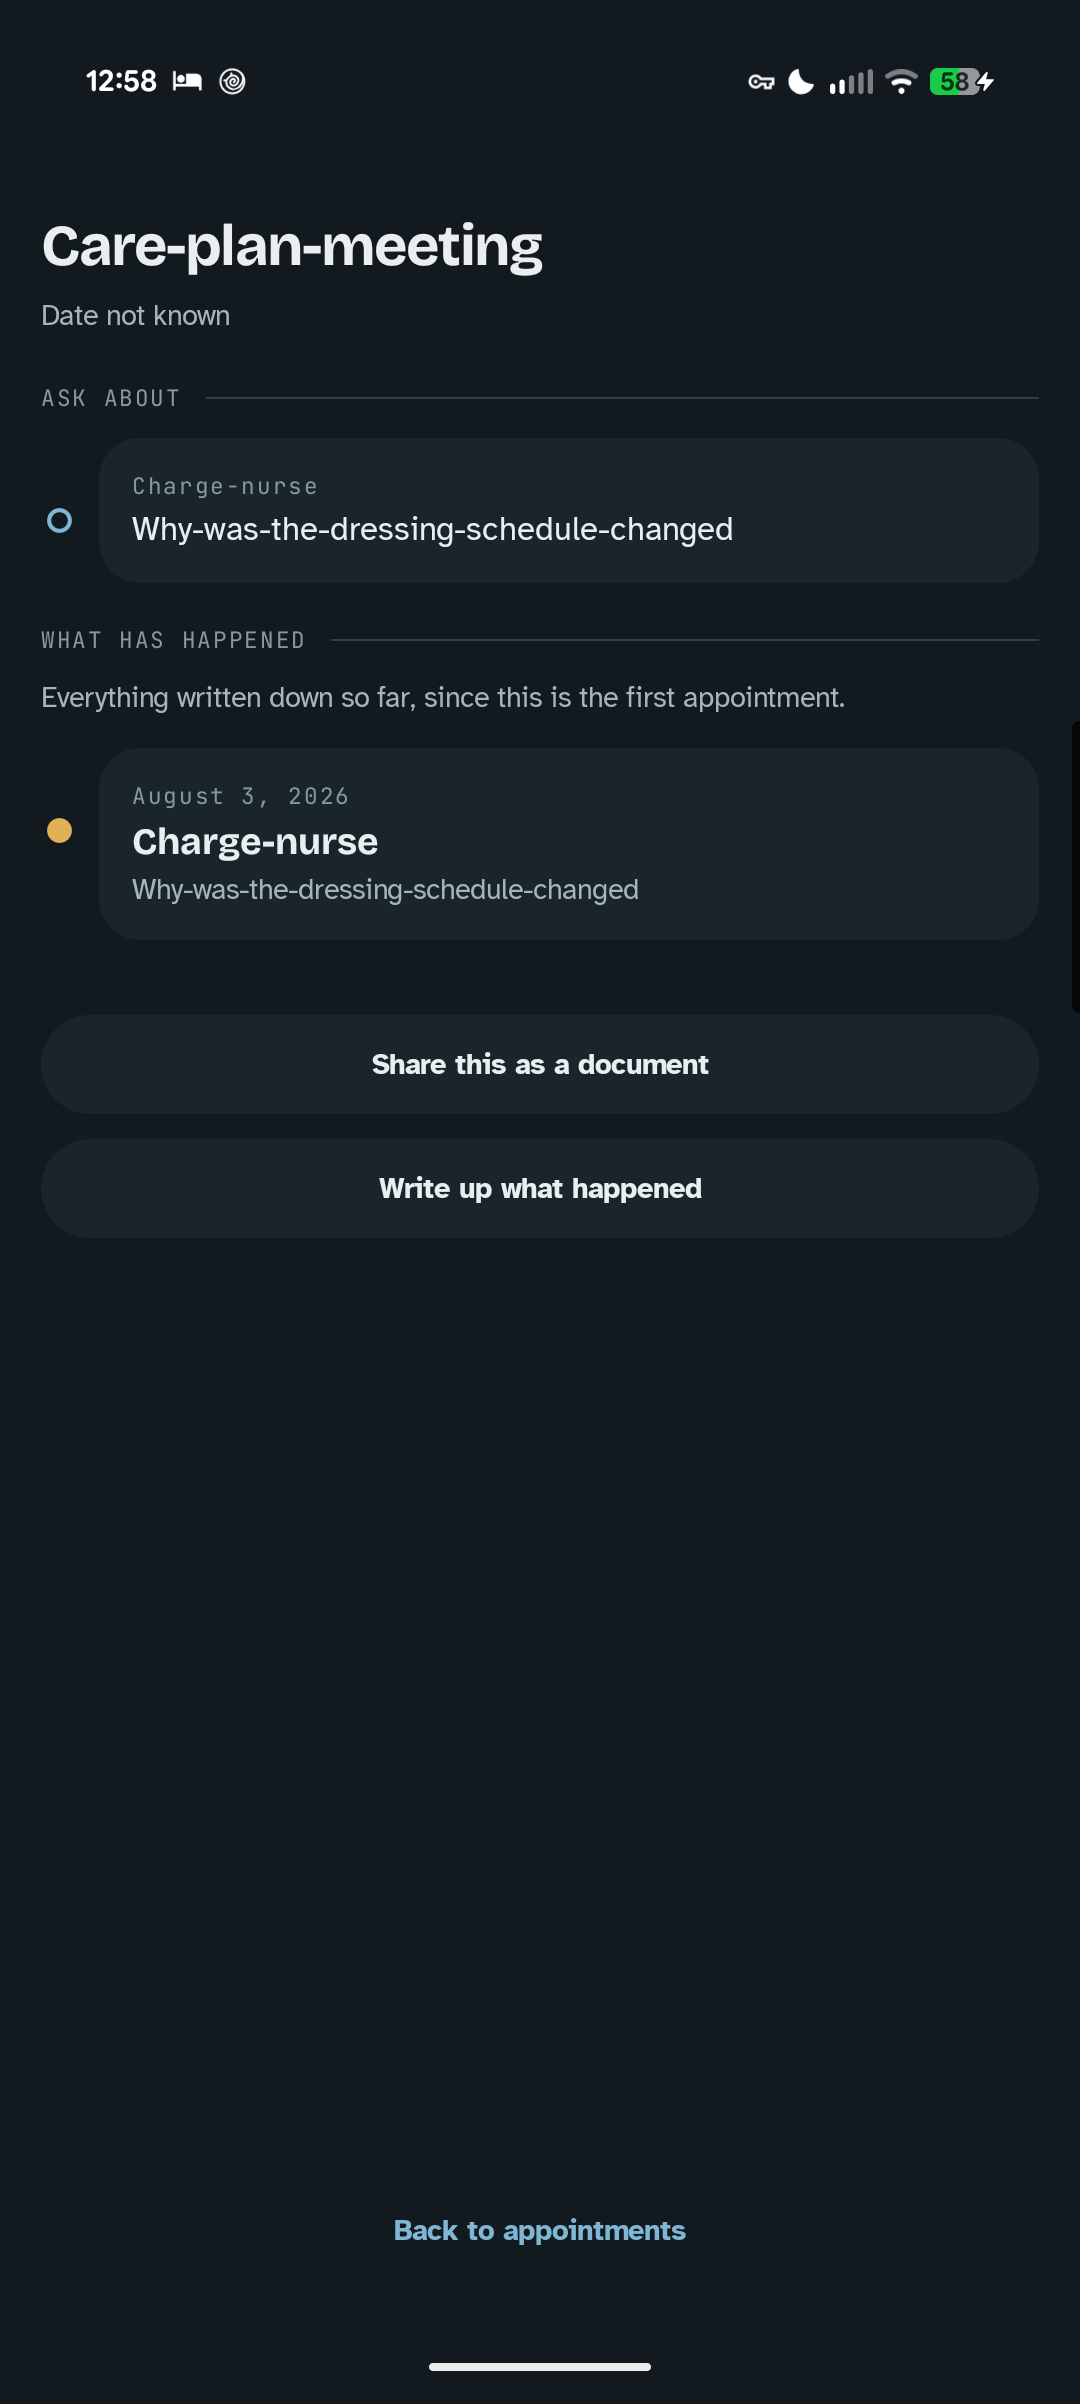
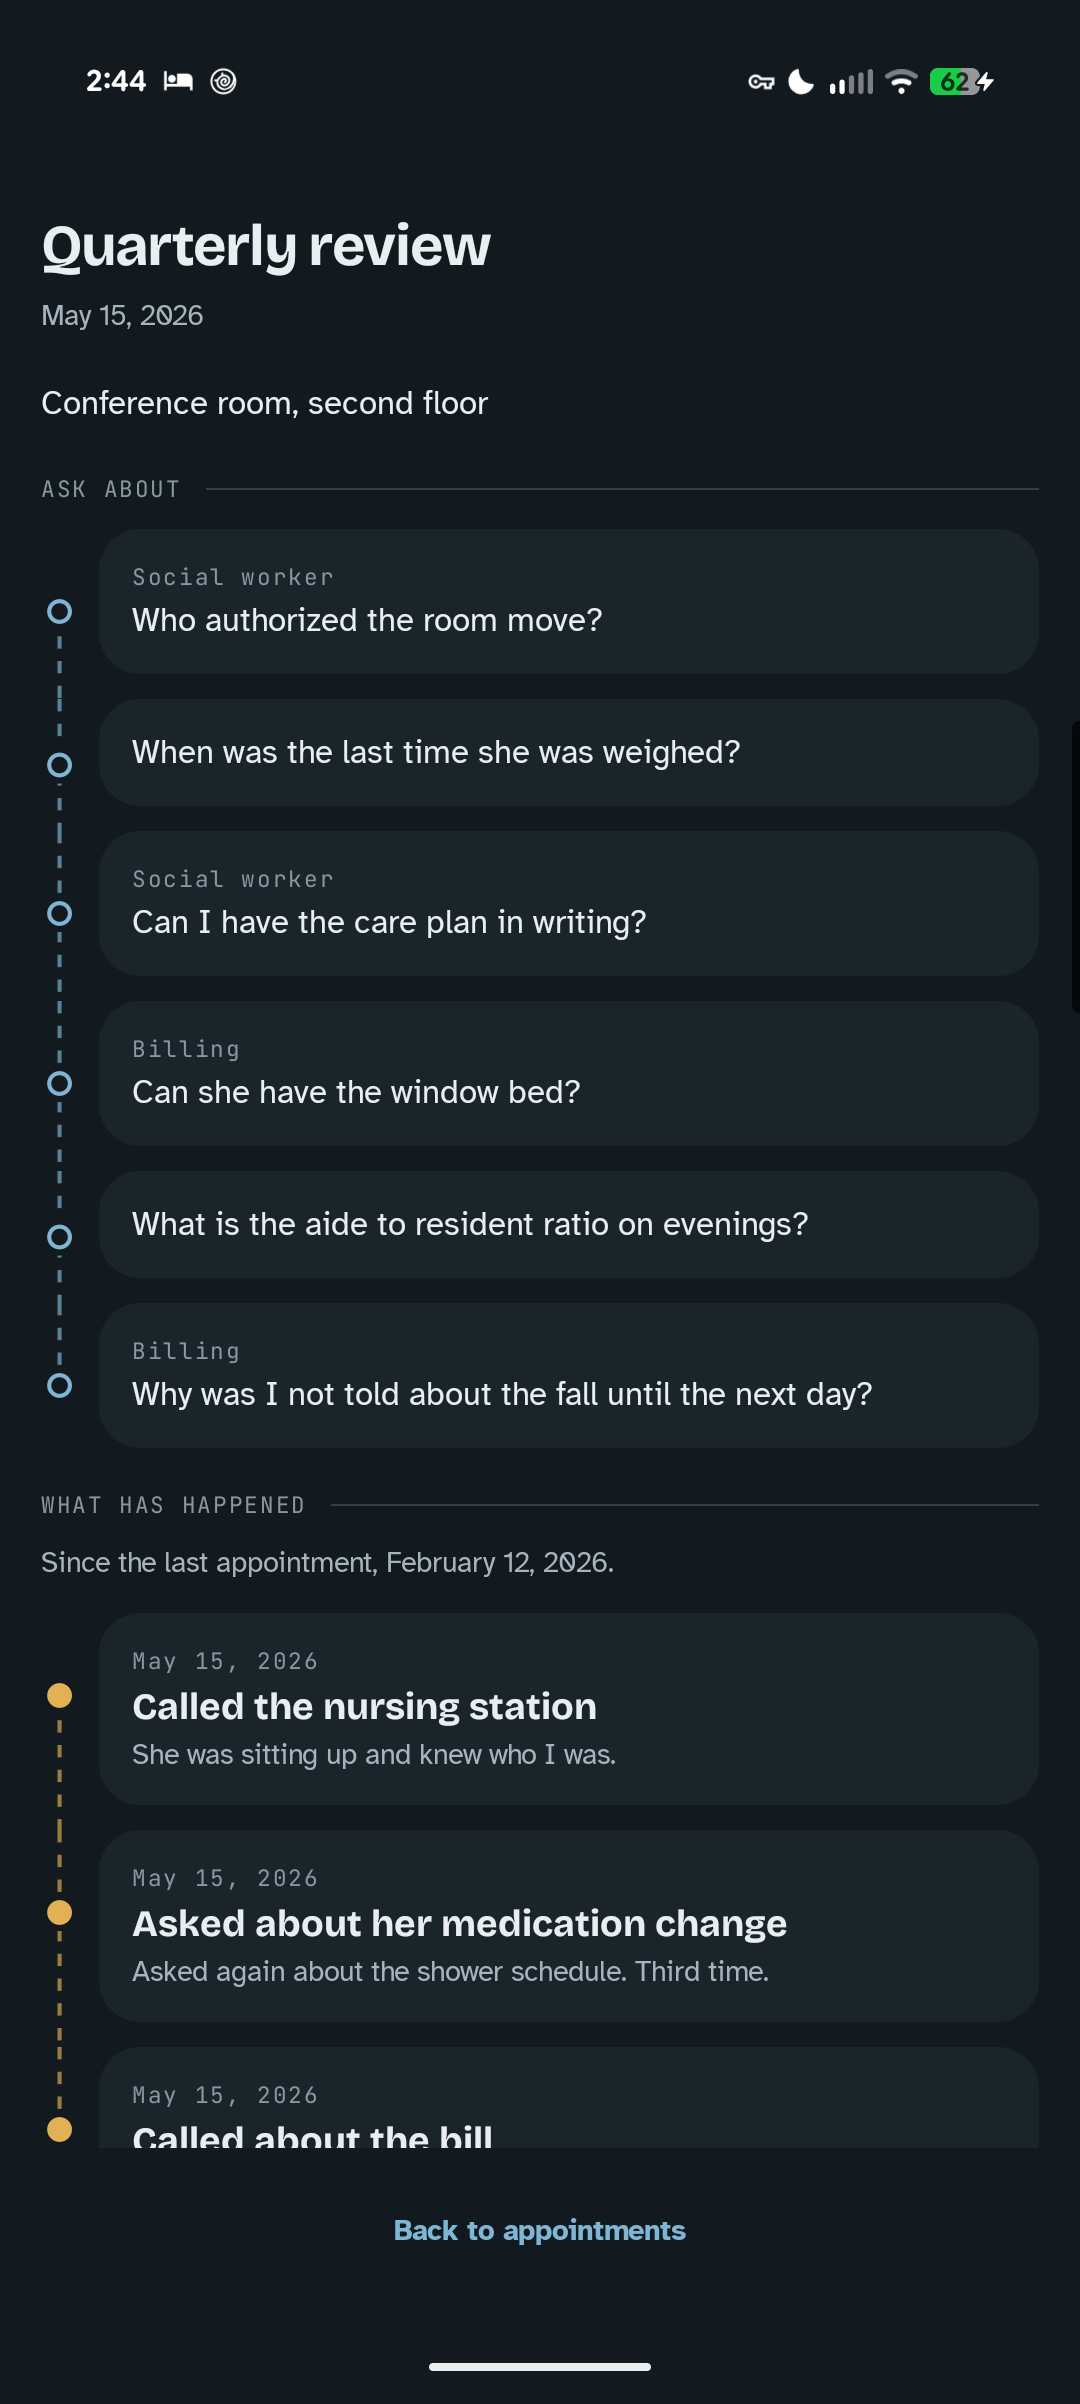
The waypoints drifted away from the rows they mark
nodeCenterY is forty dp from the top of the row, and it was measured
against a trail card, which carries a date line above its title. A card
with one line of text and no eyebrow is shorter than that, so the node
landed below the words it marks, near the card's bottom edge.

On the prep sheet the two shapes sit next to each other: a question with a
role label above it and a question without one. Their waypoints visibly
drifted apart down the spine, which reads as a rendering fault rather than
as a trail. Nothing in the code looked wrong, and it is only obvious on a
screen with both kinds of row on it, which needed the fixture to have
questions in it, which it learned an hour ago.

Clamped to half the row's own height. A short row centers, a tall one
still anchors at its first line, which is the reason this is an offset
rather than a center in the first place.

Getting the height took two attempts. BoxWithConstraints is the obvious
tool and it is a SubcomposeLayout, so the parent Row measuring with
IntrinsicSize.Min throws outright: "Asking for intrinsic measurements of
SubcomposeLayout layouts is not supported". Caught by opening the screen,
which is the only place it could have been caught, since it compiles and
lints clean.

So the node is drawn into the gutter canvas, where the row's measured
height is already in hand at draw time. The drawing itself came out into
drawWaypoint, shared with WaypointDot, so the two places that put a node
[…]

diff --git a/android/app/src/main/kotlin/com/kamsiob/healthtrail/ui/components/Spine.kt b/android/app/src/main/kotlin/com/kamsiob/healthtrail/ui/components/Spine.kt
@@ -3,6 +3,7 @@ package com.kamsiob.healthtrail.ui.components
 import androidx.compose.foundation.Canvas
 import androidx.compose.foundation.background
 import androidx.compose.foundation.layout.Box
+import androidx.compose.foundation.layout.BoxWithConstraints
 import androidx.compose.foundation.layout.IntrinsicSize
 import androidx.compose.foundation.layout.Row
 import androidx.compose.foundation.layout.fillMaxHeight
@@ -22,6 +23,7 @@ import androidx.compose.ui.geometry.Offset
 import androidx.compose.ui.graphics.Color
 import androidx.compose.ui.graphics.PathEffect
 import androidx.compose.ui.graphics.StrokeCap
+import androidx.compose.ui.graphics.drawscope.DrawScope
 import androidx.compose.ui.graphics.drawscope.Stroke
 import androidx.compose.ui.semantics.clearAndSetSemantics
 import androidx.compose.ui.unit.Dp
@@ -136,39 +138,64 @@ fun WaypointDot(
         contentAlignment = Alignment.Center,
     ) {
         Canvas(modifier = Modifier.size(box)) {
-            val center = Offset(this.size.width / 2, this.size.height / 2)
-            val radius = size.toPx() / 2
-
-            // The ring in the surface color, drawn first, so whatever the node
-            // sits on does not touch it.
-            drawCircle(
-                color = surface.copy(alpha = alpha),
-                radius = radius + ring.toPx(),
-                center = center,
+            drawWaypoint(
+                center = Offset(this.size.width / 2, this.size.height / 2),
+                color = color,
+                state = state,
+                surface = surface,
+                alpha = alpha,
             )
+        }
+    }
+}
 
-            when (state) {
-                Waypoint.HAPPENED -> drawCircle(color.copy(alpha = alpha), radius, center)
+/**
+ * One waypoint, drawn at a point.
+ *
+ * **Shared so the two places that draw a node cannot drift.** [WaypointDot]
+ * places one as a composable, wherever a row wants to carry the mark; a
+ * [SpineRow] draws its own into the gutter canvas, because it needs the row's
+ * measured height to place it and asking a composable for that inside a Row
+ * measured with `IntrinsicSize.Min` is not something Compose will do:
+ * `BoxWithConstraints` is a `SubcomposeLayout` and throws outright.
+ */
+private fun DrawScope.drawWaypoint(
+    center: Offset,
+    color: Color,
+    state: Waypoint,
+    surface: Color,
+    alpha: Float,
+) {
+    val radius = Trail.nodeSize.toPx() / 2
 
-                // Hollow, and the stroke sits inside the same 12dp so an
-                // upcoming thing does not read as a larger thing.
-                Waypoint.UPCOMING -> drawCircle(
-                    color = color.copy(alpha = alpha),
-                    radius = radius - Trail.hollowStroke.toPx() / 2,
-                    center = center,
-                    style = Stroke(width = Trail.hollowStroke.toPx()),
-                )
+    // The ring in the surface color, drawn first, so whatever the node sits on
+    // does not touch it.
+    drawCircle(
+        color = surface.copy(alpha = alpha),
+        radius = radius + Trail.nodeRing.toPx(),
+        center = center,
+    )
 
-                Waypoint.MILESTONE -> {
-                    drawCircle(color.copy(alpha = alpha), radius, center)
-                    drawCircle(
-                        color = color.copy(alpha = alpha),
-                        radius = radius + Trail.milestoneGap.toPx(),
-                        center = center,
-                        style = Stroke(width = Trail.milestoneRing.toPx()),
-                    )
-                }
-            }
+    when (state) {
+        Waypoint.HAPPENED -> drawCircle(color.copy(alpha = alpha), radius, center)
+
+        // Hollow, and the stroke sits inside the same 12dp so an upcoming thing
+        // does not read as a larger thing.
+        Waypoint.UPCOMING -> drawCircle(
+            color = color.copy(alpha = alpha),
+            radius = radius - Trail.hollowStroke.toPx() / 2,
+            center = center,
+            style = Stroke(width = Trail.hollowStroke.toPx()),
+        )
+
+        Waypoint.MILESTONE -> {
+            drawCircle(color.copy(alpha = alpha), radius, center)
+            drawCircle(
+                color = color.copy(alpha = alpha),
+                radius = radius + Trail.milestoneGap.toPx(),
+                center = center,
+                style = Stroke(width = Trail.milestoneRing.toPx()),
+            )
         }
     }
 }
@@ -250,55 +277,52 @@ fun SpineRow(
     val colors = HealthTrail.colors
 
     Row(modifier = modifier.fillMaxWidth().height(IntrinsicSize.Min)) {
-        Box(modifier = Modifier.width(Trail.gutterWidth).fillMaxHeight()) {
-            Canvas(modifier = Modifier.fillMaxHeight().width(Trail.gutterWidth)) {
-                val x = Trail.lineCenter.toPx()
-                val nodeY = Trail.nodeCenterY.toPx()
-                val top = if (continuesAbove) 0f else nodeY
-                val bottom = if (continuesBelow) size.height else nodeY
-                // Strokes in from the top, which is the direction the person
-                // reads and the direction the trail travels.
-                val end = top + (bottom - top) * progress
-                if (end > top) {
-                    drawLine(
-                        color = routeColor.copy(alpha = routeAlpha),
-                        start = Offset(x, top),
-                        end = Offset(x, end),
-                        strokeWidth = Trail.strokeWidth.toPx(),
-                        cap = dash?.cap ?: StrokeCap.Round,
-                        pathEffect = dash?.let {
-                            PathEffect.dashPathEffect(
-                                floatArrayOf(it.on.toPx(), it.off.toPx()),
-                            )
-                        },
-                    )
-                }
+        Canvas(modifier = Modifier.width(Trail.gutterWidth).fillMaxHeight()) {
+            val x = Trail.lineCenter.toPx()
+
+            // **Never below the row's own middle.** `nodeCenterY` was measured
+            // against a trail card, which carries a date line above its title.
+            // A card with one line and no eyebrow is shorter than that, so a
+            // fixed offset put the waypoint below the text it marks, near the
+            // card's bottom edge. Rows of both shapes sit next to each other on
+            // the prep sheet, where the questions carrying a role label and the
+            // ones without it visibly drifted apart, and a spine whose nodes do
+            // not line up with their rows reads as a rendering fault rather
+            // than as a trail.
+            //
+            // Clamping keeps a tall row anchored at its first line, which is
+            // the whole reason this is an offset and not simply a center.
+            val nodeY = minOf(Trail.nodeCenterY.toPx(), size.height / 2)
+
+            val top = if (continuesAbove) 0f else nodeY
+            val bottom = if (continuesBelow) size.height else nodeY
+            // Strokes in from the top, which is the direction the person reads
+            // and the direction the trail travels.
+            val end = top + (bottom - top) * progress
+            if (end > top) {
+                drawLine(
+                    color = routeColor.copy(alpha = routeAlpha),
+                    start = Offset(x, top),
+                    end = Offset(x, end),
+                    strokeWidth = Trail.strokeWidth.toPx(),
+                    cap = dash?.cap ?: StrokeCap.Round,
+                    pathEffect = dash?.let {
+                        PathEffect.dashPathEffect(floatArrayOf(it.on.toPx(), it.off.toPx()))
+                    },
+                )
             }
 
+            // **Drawn here rather than placed as a composable**, so it can use
+            // the row's measured height. The gutter is decorative and the row
+            // beside it always names the thing in words, so nothing is lost to
+            // the reader by this not being a node in the semantics tree.
             if (node != null) {
-                WaypointDot(
+                drawWaypoint(
+                    center = Offset(x, nodeY),
                     color = node,
                     state = state,
                     surface = colors.paper,
                     alpha = progress,
-                    // **Offset rather than padding.** A milestone's box is
-                    // wider than the others, and the line sits 9dp from the
-                    // start edge, so centering one on the line is a negative
-                    // start of 4dp. Padding refuses a negative value at runtime
-                    // with "Padding must be non-negative", which is a crash
-                    // rather than a layout artifact, and `ScreenReaderTest`
-                    // caught it on the chapters screen within a minute of the
-                    // milestone existing.
-                    //
-                    // `offset` is layout direction aware, so a positive x still
-                    // travels toward the end edge in Arabic and the whole spine
-                    // mirrors, which `absoluteOffset` would break.
-                    modifier = Modifier.offset(
-                        x = Trail.lineCenter - Trail.nodeSize / 2 - Trail.nodeRing -
-                            if (state == Waypoint.MILESTONE) Trail.milestoneGap else 0.dp,
-                        y = Trail.nodeCenterY - Trail.nodeSize / 2 - Trail.nodeRing -
-                            if (state == Waypoint.MILESTONE) Trail.milestoneGap else 0.dp,
-                    ),
                 )
             }
         }

diff --git a/android/app/src/main/kotlin/com/kamsiob/healthtrail/ui/theme/Dimens.kt b/android/app/src/main/kotlin/com/kamsiob/healthtrail/ui/theme/Dimens.kt
@@ -100,11 +100,21 @@ object Trail {
     val lineCenter: Dp = 9.dp
 
     /**
-     * Where the node sits down the row.
+     * Where the node sits down the row, at most.
      *
      * It lands on the row's first line of text rather than in its vertical
      * middle, so a long entry does not push its own waypoint away from the date
-     * it belongs to.
+     * it belongs to. **Measured against a trail card, which carries a date line
+     * above its title**, and that is the assumption that failed: a card with
+     * one line of text and no eyebrow is shorter than this, so a fixed offset
+     * put the node below the text it marks, near the card's bottom edge. Seen
+     * on the prep sheet, where questions with a role label and questions
+     * without one sit next to each other and their waypoints visibly drift
+     * apart.
+     *
+     * [com.kamsiob.healthtrail.ui.components.SpineRow] clamps it to half the
+     * row's own height, so a short row centers and a tall one still anchors at
+     * its first line.
      */
     val nodeCenterY: Dp = 40.dp
 }
